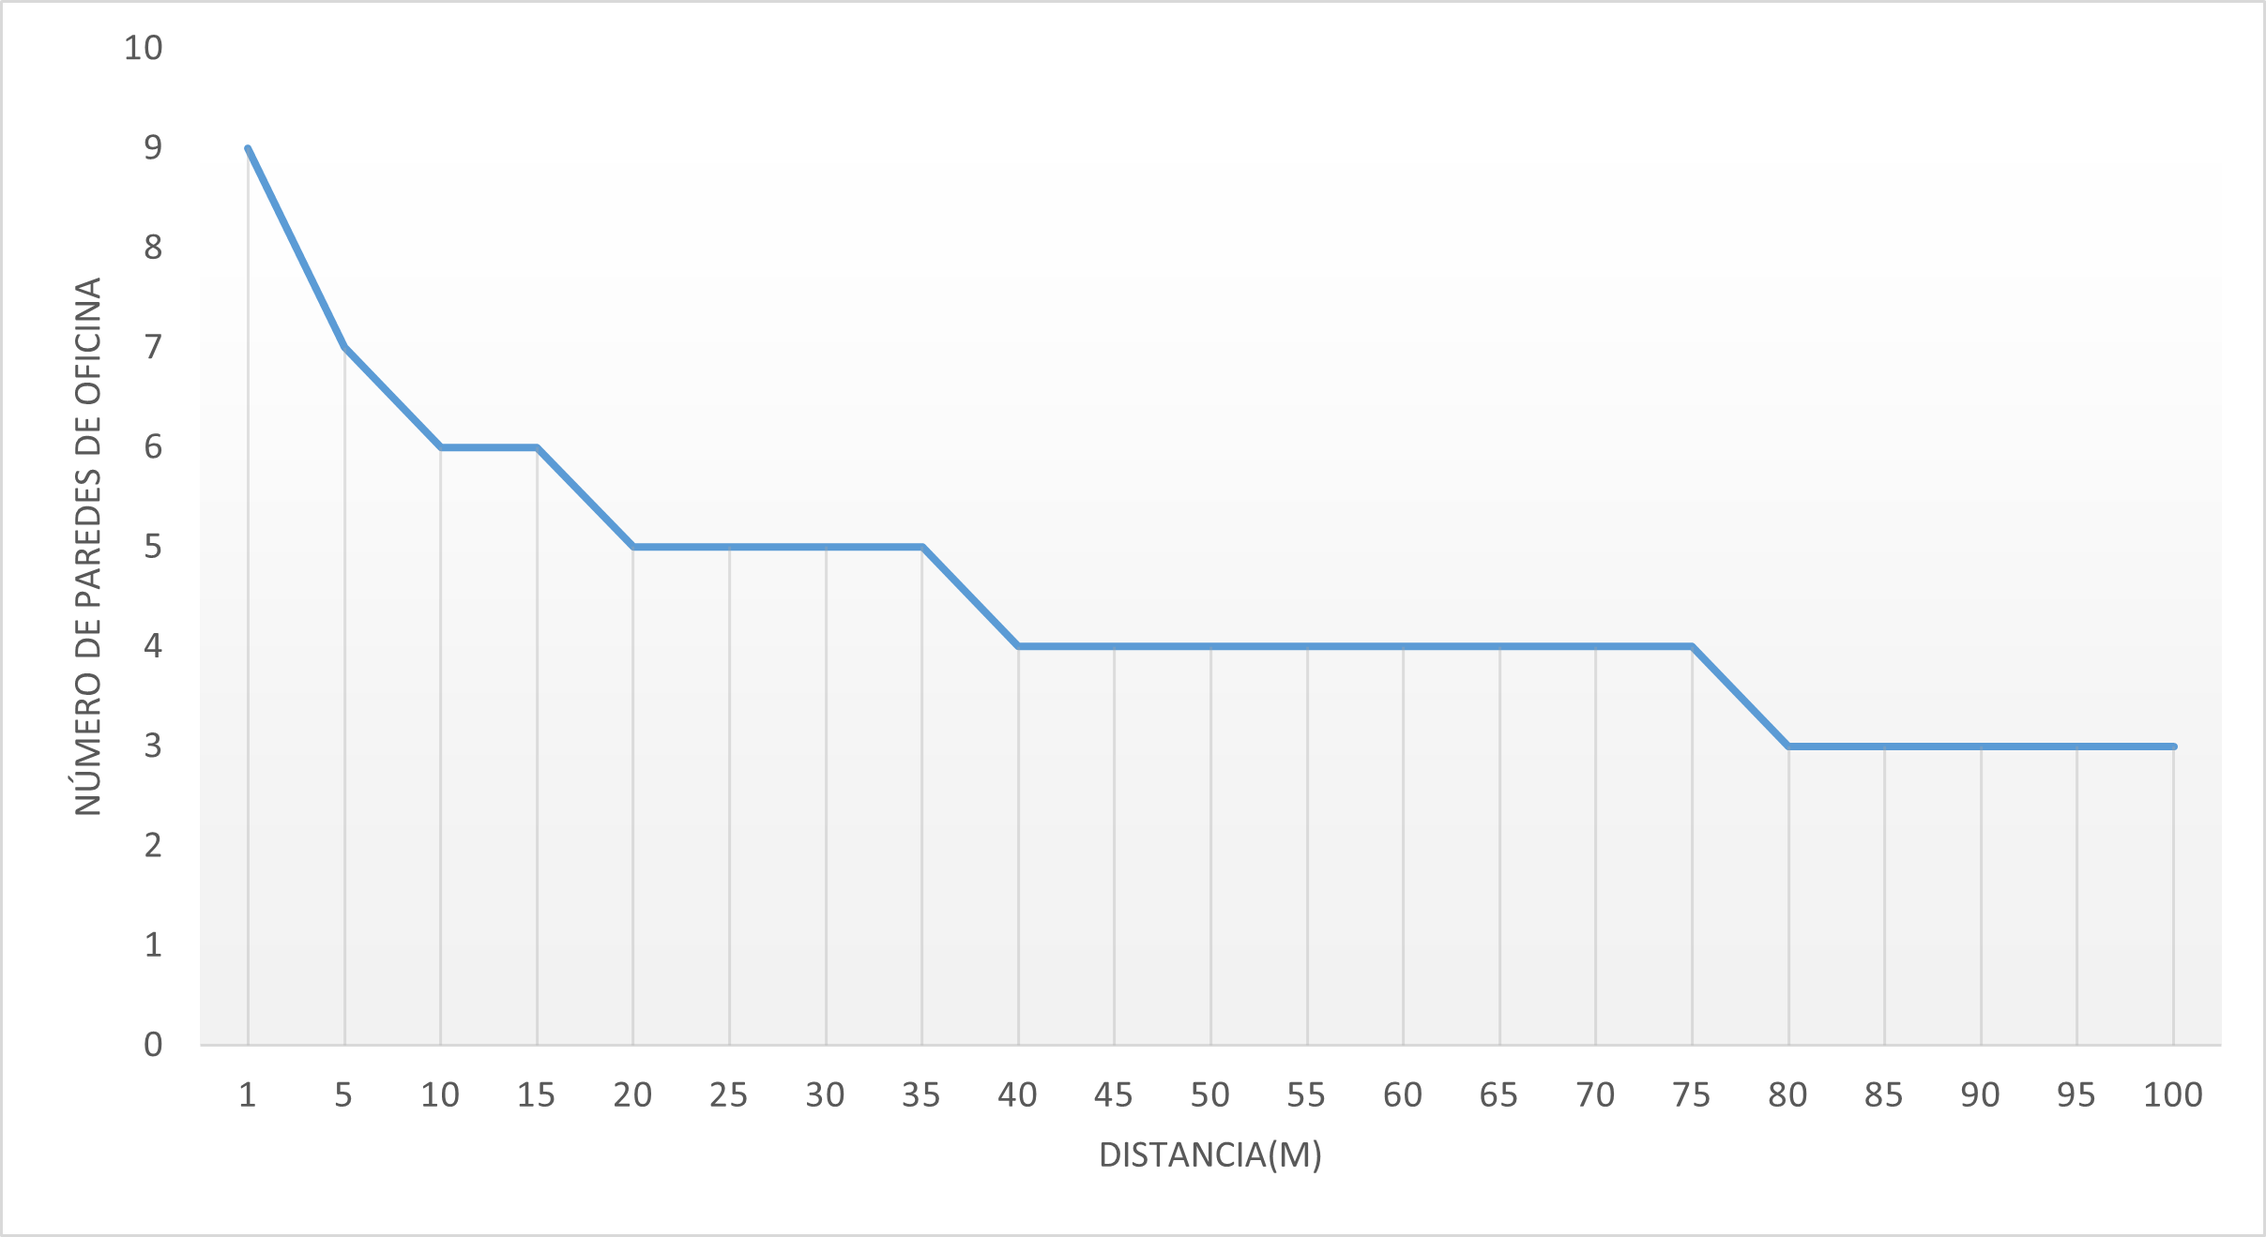
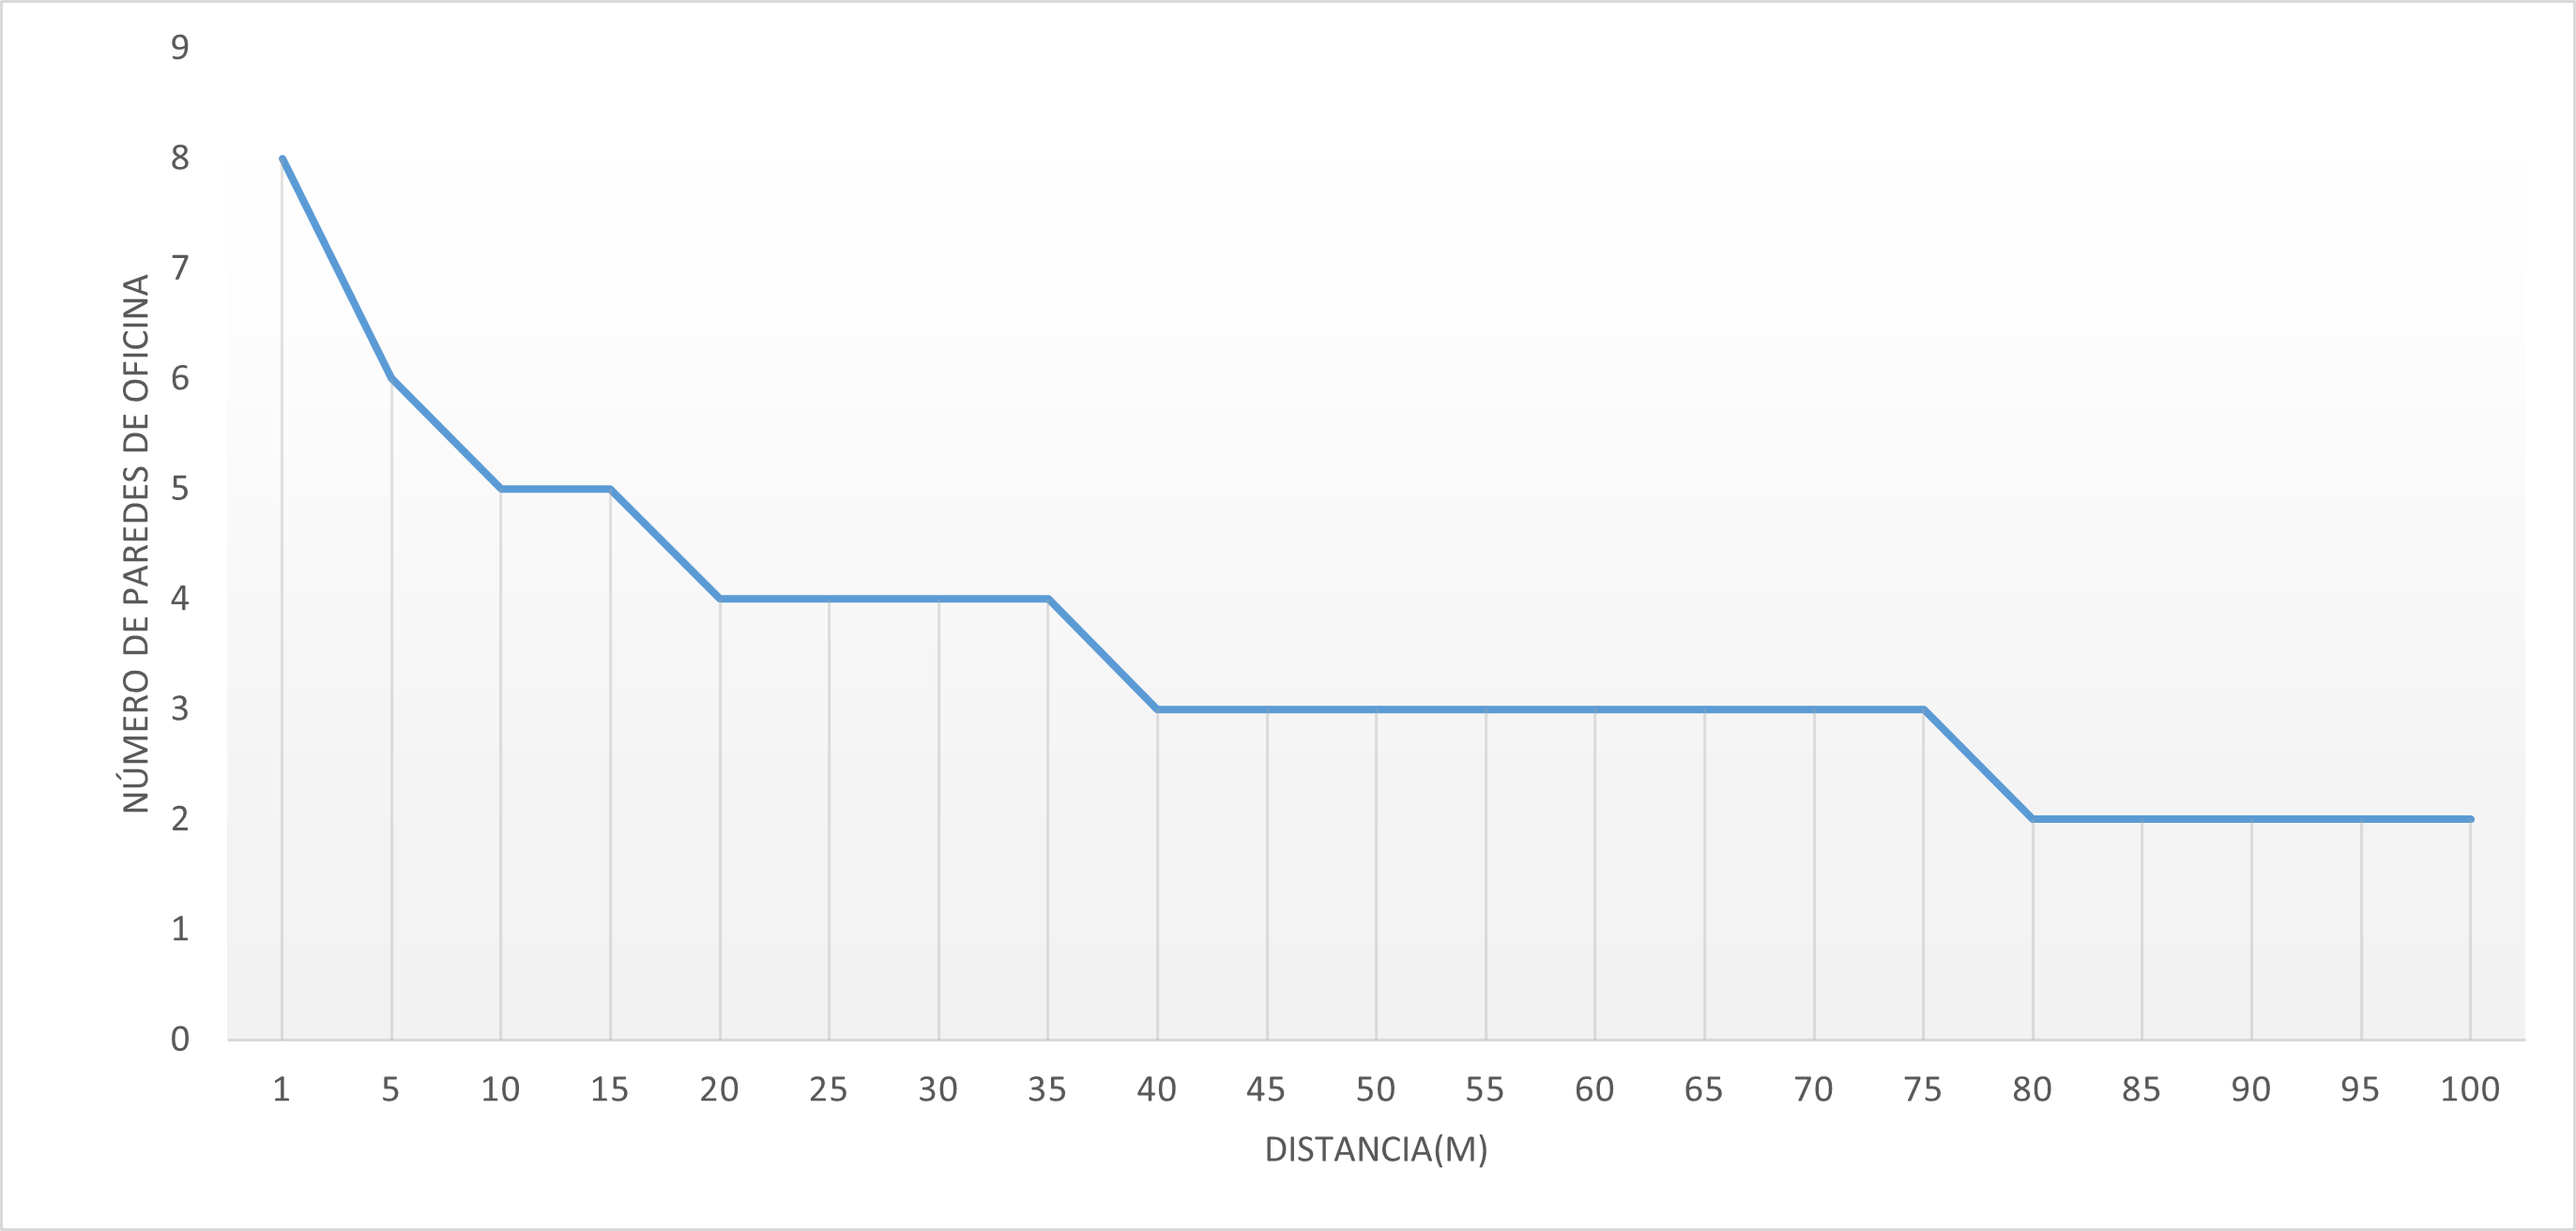
correct radiocom ej1

diff --git a/radiocom ej1/main.tex b/radiocom ej1/main.tex
@@ -55,26 +55,30 @@ $$P_{RX}' (dBm) = P_{RX}(dBm) - N \cdot 6 dB \geq -72dBm$$
 
 Por lo que existirá un número N máximo de paredes que se pueda atravesar respecto a la distancia introducida en la fórmula anteriormente. Para despejarlo, valdrá con igualarlo como una ecuación común y, al ser las paredes un número entero, redondearlo a la baja.
 
+
+
 \subsection{Cálculos en excel y procesamiento de la gráfica}
 
 Una vez resuelto teóricamente el problema, en el excel presentado, se usarán las filas y columnas necesarias para los valores de entrada, en este caso la columna $C$ contendrá los valores necesarios para la resolución de la fórmula.
 
 \begin{figure}[h]
       \centering
-      \includegraphics[width=0.35\linewidth]{EXCEL3O6fvT3iZ7.png}
+      \includegraphics[width=0.35\linewidth]{exceldatos.png}
       \caption{\label{fig:excele} Parámetros de entrada en el excel.}
 \end{figure}
 
 Como la distancia estará en la gráfica, se necesitarán varios valores. (ver archivo xlsx).
-Para cada valor, se calculará la $P_{RX}$ con la fórmula despejada anteriormente, y en otra fila, tendremos la $P_{RX}$ en dBm.
+Para cada valor, se calculará la $P_{RX}$ con la fórmula despejada anteriormente, y en otra fila, se obtiene la $P_{RX}$ en dBm.
 
-Una vez obtenidas las potencias para las distintas distancias, se puede observar cuál será el valor de N paredes que hacen que la $P_{RX}'$ tenga el valor de la sensibilidad. Finalmente, se redondeará a la baja, y se tomará en el eje de ordenadas. En el eje de abcisas estará la fila con los valores usados en la distancia.
+Una vez obtenidas las potencias para las distintas distancias, se puede observar cuál será el valor de N paredes que hacen que la $P_{RX}'$ tenga el valor de la sensibilidad. Finalmente, se redondeará a la baja, y se tomará en el eje de cordenadas; En el eje de abcisas estará la fila con los valores usados en la distancia.
 
 \begin{figure}[h]
       \centering
       \includegraphics[width=0.6\linewidth]{grafica paredes.png}
       \caption{\label{fig:grafic} Gráfica obtenida.}
 \end{figure}
+
+\newpage
 
 \section{Preguntas sobre la gráfica}
 
@@ -83,24 +87,24 @@ receptor hay 5 paredes?}
 
 
 
-Sí. Viendo la gráfica obtenida en excel, aunque 5 sería el número máximo de paredes que puede haber para la transmisión a la velocidad buscada. 
+No. Viendo la gráfica obtenida en Excel, no se logra una transmisión satisfactoria con este escenario. 
 
 \quad
 
 \textbf{Desde un punto de vista teórico justifique cómo podría realizarse la transmisión anterior.}
 
-Siguiento la fórmula $P_{TX}(dBm)-L_{PATHLOSS}(dBm)- N \cdot L_{pared}(dB)=P_{RX}'(dBm)$, mientras que la potencia recibida sea mayor a la sensibilidad (-72 dBm en nuestro caso) la transmisión se realizaría con éxito teóricamente.
+Siguiento la fórmula $P_{TX}(dBm)-L_{PATHLOSS}(dBm)- N \cdot L_{pared}(dB)=P_{RX}'(dBm)$, mientras que la potencia recibida sea mayor a la sensibilidad (-72 dBm en nuestro caso) la transmisión se hubiera realizado con éxito teóricamente. Con los datos obtenidos de Excel obtendríamos una potencia recibida de : $P_{RX}(dBm)=-73,46 dBm\leq -72 dBm$ \\ Por lo que la potencia recibida es menor, y no cumple el requisito.
 
 \quad
 
 \textbf{Desde un punto de vista práctico justifique si la transmisión podría realizarse.}
 
-En la práctica basta con ver si un dispositivo receptor recibe la señal a la velocidad (54 Mbps) indicada con la distancia y paredes buscadas. Un dispositivo para detectar la potencia valdría también, comparándolo con la sensibilidad.
+En la práctica basta con ver que un dispositivo no está recibiendo la velocidad solicitada de 54 Mbps sino a otra inferior.
 
 \quad
 
 \textbf{Justifique por qué en el modelo de Path Loss $\alpha$ es inferior a 2.}
 
-El resultado de $\alpha$=1.8 se estima a que es una constante obtenida de interiores. Al existir obstáculos donde la onda pueda rebotar siempre hará que $\alpha$ sea mayor que 1, pero al no ser exterior, donde puede rebotar la señal en edificios, árboles, vehículos, $\alpha$ no llega a 3 o más como suele usarse en ese tipo de áreas urbanas.
+El resultado de $\alpha$=1.8 se estima a que es una constante obtenida de interiores. Al existir obstáculos donde la onda pueda rebotar siempre hará que $\alpha$ sea mayor que 1 y perderá más potencia que en un camino ideal (por ejemplo el vacío), pero al no ser exterior, donde puede rebotar la señal en edificios, árboles, vehículos, $\alpha$ no llega a 3 o más como suele usarse en ese tipo de áreas urbanas.
 
 \end{document}
